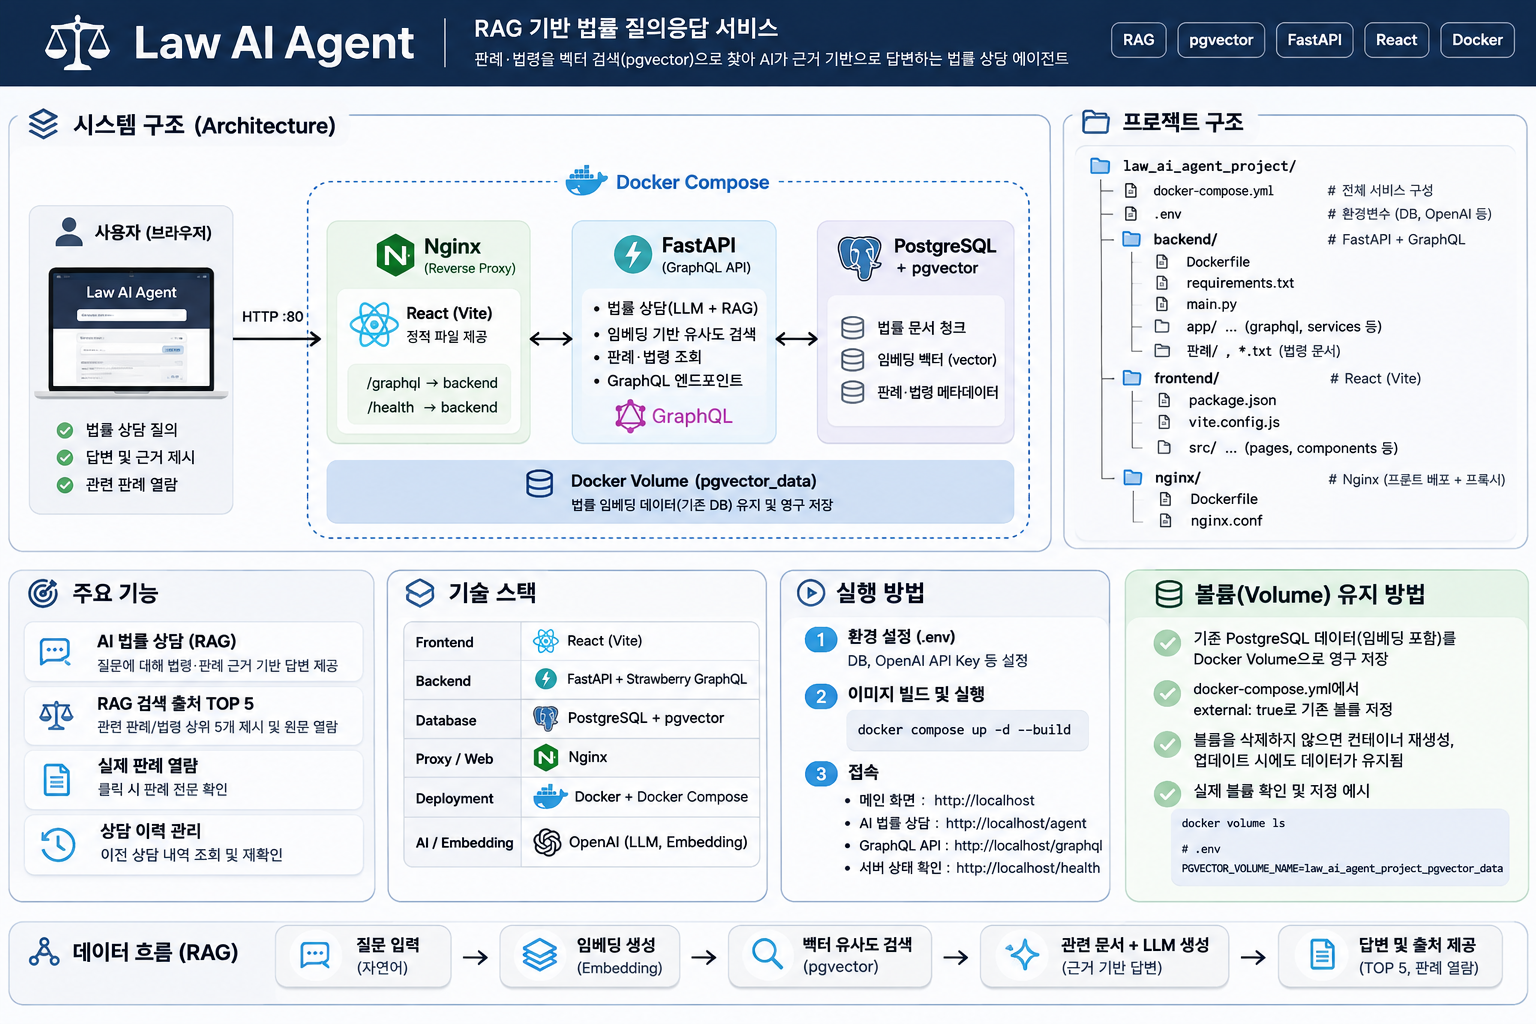
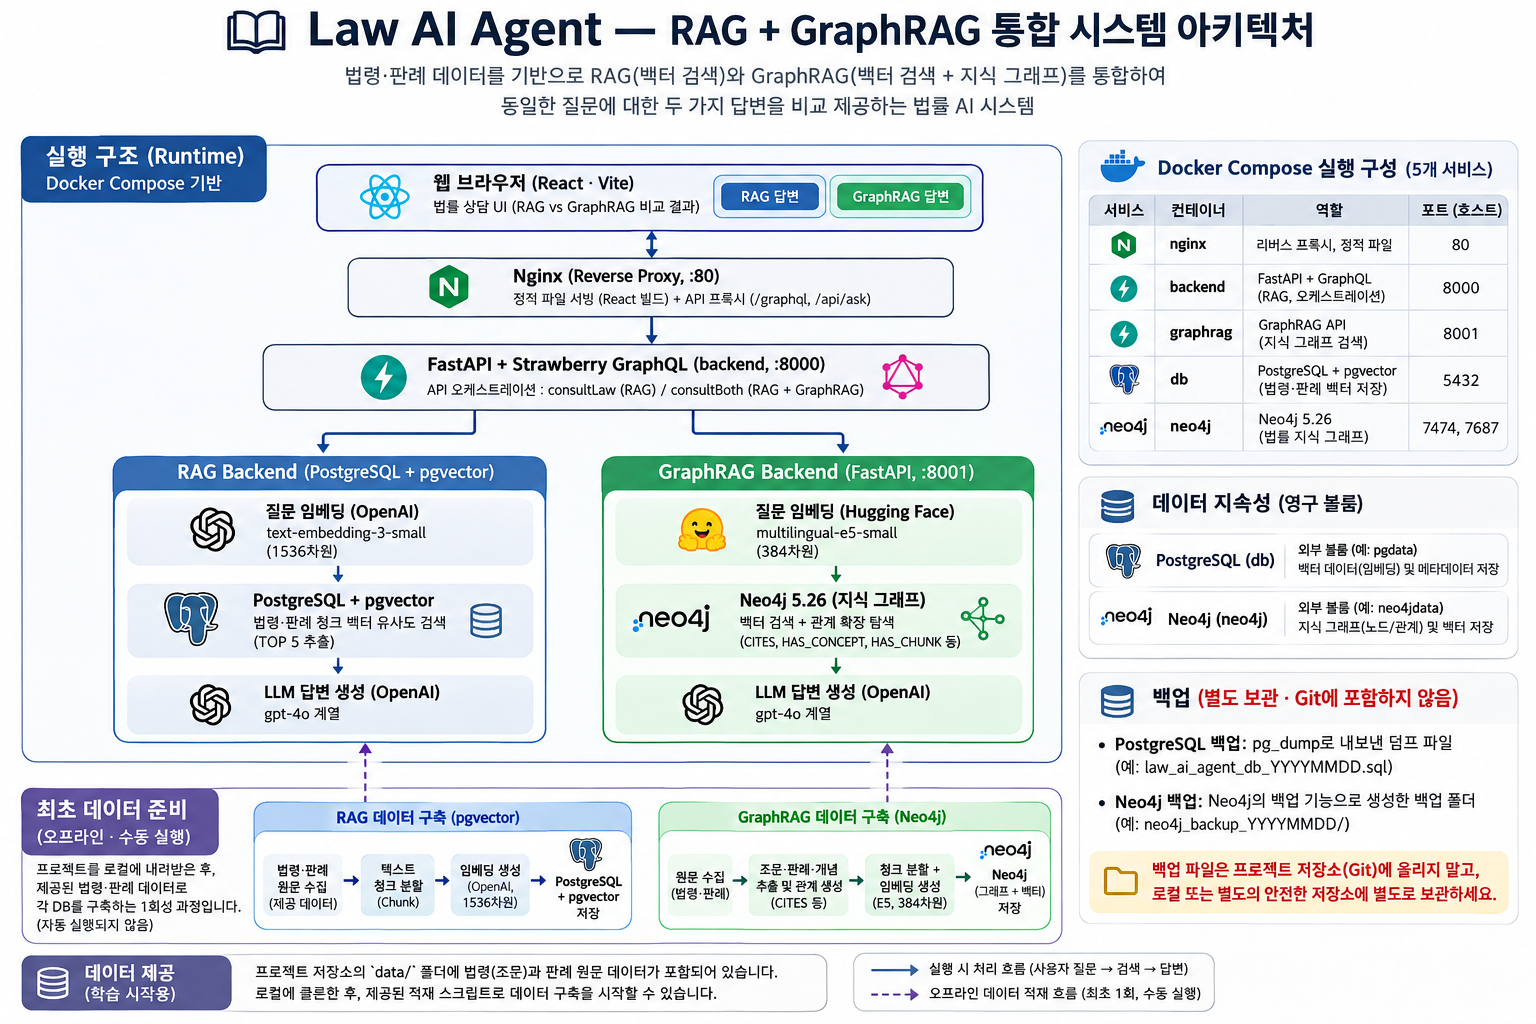
docs: update architecture and add learning data structure

diff --git a/README.md b/README.md
@@ -2,7 +2,7 @@
 
 **React + FastAPI + GraphQL 기반 법률 정보 검색·상담 프로젝트 — RAG(pgvector)와 GraphRAG(Neo4j) 비교**
 
-하나의 법률 질문에 대해 **RAG(문서 유사도 검색)**와 **GraphRAG(벡터 검색 + 법률 지식 관계 확장)**가 독립적으로 답변하도록 설계했습니다. Docker 환경에서 **`consultBoth` GraphQL Mutation 및 React 비교 화면의 실제 실행을 확인**했습니다. 아래에는 기존 RAG 화면과 통합 비교 화면을 모두 수록했습니다.
+하나의 법률 질문에 대해 **RAG(문서 유사도 검색)**와 **GraphRAG(벡터 검색 + 법률 지식 관계 확장)**가 독립적으로 답변하도록 설계했습니다. Docker 환경에서 **`consultBoth` GraphQL Mutation 및 React 비교 화면의 실제 실행을 확인**했습니다. 아래에는 최신 통합 아키텍처, 최초 데이터 구축과 질문 처리 흐름, 로컬 학습 환경 구성 방법을 정리했습니다.
 
 > ⚠ 이 프로젝트는 법률 정보 탐색을 위한 데모이며 변호사의 법률 자문을 대체하지 않습니다. 저장된 판례 청크는 판결문 전체가 아닐 수 있으며, 공식 판례 직접 링크는 검증된 사건번호·URL 메타데이터가 있을 때만 제공할 수 있습니다.
 
@@ -10,7 +10,7 @@
 
 ![Law AI Agent 시스템 아키텍처](assets/architecture.png)
 
-> 위 아키텍처 이미지는 초기 RAG 중심 설계의 참고 자료입니다. **현재 통합 구조**는 아래의 `consultBoth` 흐름과 GraphRAG 서비스를 함께 확인하세요.
+> **최신 통합 아키텍처:** Docker Compose의 `nginx`, `backend`, `graphrag`, `db`, `neo4j` 5개 서비스로 구성됩니다. 외부에 공개되는 포트는 기본적으로 Nginx의 80번이며, DB 및 내부 API 포트는 Docker 네트워크 내부에서 사용합니다. GraphRAG `/api/ask`는 메인 백엔드가 내부 HTTP로 호출합니다. 이미지의 서비스별 포트는 내부 리스닝 포트를 포함한 개념 표시이며, 실제 포트 공개 여부는 `docker-compose.yml`을 기준으로 확인하세요. 답변 모델은 `.env`의 `CHAT_MODEL`/`OPENAI_MODEL` 설정을 따릅니다.
 
 - **Nginx**: React(Vite) 정적 파일 제공 및 `/graphql`, `/health`를 FastAPI로 리버스 프록시
 - **FastAPI + Strawberry GraphQL**: 기존 `consultLaw` 및 통합 `consultBoth` Mutation
@@ -107,39 +107,14 @@ docker compose logs --tail=100 backend graphrag
 
 > **실행 상태(2026-11-21):** 로컬 Docker에서 `consultBoth`가 `rag.status = SUCCESS`, `graphrag.status = SUCCESS`를 반환하는 것을 확인했고, React 화면에서도 두 답변과 각각의 출처 TOP 5가 표시되는 것을 확인했습니다. 두 상태값은 API 실행 성공을 뜻하며, 법률적 정확성을 검증한 지표는 아닙니다.
 
-## 🆕 RAG + GraphRAG 통합 비교 — 실제 실행 화면
+## 🧪 통합 실행 확인 및 비교 관찰
 
-아래 이미지는 **2026-11-21 로컬 Docker 환경에서 실제 실행한 React 화면 캡처**입니다. 동일한 질문을 `consultBoth` Mutation으로 보내 RAG와 GraphRAG 답변을 한 화면에 나란히 표시합니다.
+2026-11-21 로컬 Docker 환경에서 `consultBoth` Mutation 호출 시 **RAG와 GraphRAG 모두 `SUCCESS`** 응답을 확인했습니다. React 화면에서 두 답변과 각 검색 출처 TOP 5를 나란히 표시했습니다. 다만 실행 화면 캡처는 문서를 간결하게 유지하기 위해 README에서 제외했습니다.
 
-### 1. 질문 입력 및 비교 상담 실행
-
-![RAG GraphRAG 비교 상담 질문 입력](assets/05-compare-question.png)
-
-- 사용자가 입력한 질문: **“AI가 생성한 문구는 저작권이 있나요? (AI가 특정 도서나 논문을 참고시)”**
-- **RAG + GraphRAG 비교 상담** 버튼 한 번으로 두 검색 경로를 호출합니다.
-
-### 2. 두 방식의 답변을 나란히 비교
-
-![RAG와 GraphRAG 실제 답변 비교](assets/06-compare-answers.png)
-
-- 왼쪽 **RAG · pgvector**: 검색한 법률 문서 청크를 중심으로 상담 내용 요약, 근거, 대응 방법을 정리합니다.
-- 오른쪽 **GraphRAG · Neo4j**: 법률 개념과 연결된 조문·판례 정보를 포함해 근거를 설명합니다.
-- 캡처에서 두 응답 모두 `SUCCESS`로 표시됩니다.
-
-### 3. 답변 하단의 검색 출처 TOP 5
-
-![RAG GraphRAG 검색 출처 TOP 5 비교](assets/07-compare-sources.png)
-
-- RAG는 `판례/민법_판례.txt` 등 **문서 청크 출처와 유사도**를 표시합니다.
-- GraphRAG는 `대법원:2015다5170` 등 **그래프 검색 출처와 유사도**를 표시합니다.
-- 각 항목의 **원문 보기**로 검색에 사용된 내용을 확인할 수 있습니다. 전체 판결문 직접 연결을 의미하지는 않습니다.
-- 검색 유사도는 서로 다른 임베딩 모델과 검색 공간에서 계산되므로 **0.44와 0.92를 직접 비교해 어느 쪽이 더 정확하다고 판단할 수 없습니다.**
-
-### 실험 관찰
-
-이번 질문에 대해 개발자는 **GraphRAG의 답변이 더 만족스럽다**고 평가했습니다. 법률 조문·판례를 구조적으로 제시해 근거를 따라가기 쉬웠다는 점이 장점입니다. 다만 이는 **단일 질문에 대한 주관적 관찰**이며, GraphRAG의 법률적 정확도가 더 높다는 검증 결과는 아닙니다.
-
-향후에는 동일 질문 세트에서 **근거 일치율, 판례·조문 인용 정확도, 답변 충실도, 응답 시간, 토큰 비용**을 함께 측정하는 방식으로 비교할 수 있습니다. 화면에 표시된 판례번호와 법률 설명은 LLM 출력이므로 공식 자료를 통한 별도 확인이 필요합니다.
+- **RAG:** 법률 문서 청크 유사도 검색을 기반으로 답변
+- **GraphRAG:** 유사 청크 검색 후 관련 조문·법률 개념·판례 관계를 확장하여 답변
+- **관찰:** 한 테스트 질문에서 GraphRAG의 근거 제시 방식이 더 만족스러웠습니다. 이는 단일 사례의 주관적 평가이며 법률 정확도 우위를 뜻하지 않습니다.
+- **주의:** 두 방식의 유사도 점수는 임베딩 모델이 달라 직접 비교할 수 없으며, 생성된 사건번호·법률 근거는 공식 자료로 검증해야 합니다.
 
 ### 통합 GraphQL 요청 예시
 
@@ -156,45 +131,6 @@ mutation {
 }
 ```
 
-## 🖥 기존 RAG 실행 화면 (Screenshots)
-
-아래 화면은 Docker로 실행한 **기존 RAG 상담 기능의 실제 브라우저 캡처**입니다. 상담 질문부터 AI 답변, 검색 근거 TOP 5, 저장된 법률 문서 청크 열람까지의 흐름을 보여줍니다.
-
-### 1. AI 법률 상담 입력
-
-![AI 법률 상담 입력 화면](assets/01-consultation-form.png)
-
-- 왼쪽 사이드바: **AI 법률 상담 / 상담 내역 / 법률 자료** 메뉴
-- 상단 상태 표시: **GraphQL 연결**
-- 상담 질문 입력 및 개인정보 입력 주의 안내
-- 화면의 예시 질문: `ai로 만든 글의 저작권`
-
-### 2. AI 법률 상담 결과
-
-![AI 법률 상담 결과](assets/02-ai-answer.png)
-
-- GraphQL `consultLaw` 요청 결과가 `SUCCESS`로 표시됩니다.
-- 답변은 상담 내용 요약, 관련 법률 및 근거, 가능한 대응 방법, 추가 확인 사항, 전문가 상담 필요 여부로 구성되어 있습니다.
-- **주의:** 화면에 표시된 법률·판례 언급은 LLM 생성 결과입니다. 특정 사건번호나 법률 해석의 정확성이 검증되었다는 의미는 아닙니다.
-
-### 3. RAG 검색 출처 TOP 5
-
-![RAG 검색 출처 TOP 5](assets/03-rag-sources.png)
-
-- **AG Grid**로 순위, 법률 자료 파일명, 코사인 유사도를 표시합니다.
-- 캡처에서는 `판례/민법_판례.txt`, `판례/형사소송법_판례.txt`, `판례/대한민국헌법_판례.txt` 등의 파일에서 검색된 청크가 표시됩니다.
-- **동일 파일이 여러 번 나타날 수 있습니다.** 문서별 1건이 아니라 *청크 단위 TOP 5*를 검색하기 때문입니다.
-- 유사도는 검색 순위를 위한 수치이며 **법적 타당성이나 답변 정확도의 점수는 아닙니다.**
-
-### 4. 검색 원문 상세보기 (Modal)
-
-![검색된 법률 원문 상세보기](assets/04-source-detail-modal.png)
-
-- 검색 결과의 **원문 보기**를 클릭하면 Ant Design Modal이 열립니다.
-- 출처 파일명, 검색 유사도, PostgreSQL에 저장된 **실제 검색 청크**를 확인할 수 있습니다.
-- **국가법령정보센터에서 판례 검색** 버튼은 공식 검색 페이지를 여는 기능이며, 현재는 선택된 특정 판결문으로 직접 이동하는 링크가 아닙니다.
-- 전체 판결문 직접 열람을 위해서는 `case_number`, `official_url`, `document_id` 등 검증된 메타데이터 연결이 추가로 필요합니다.
-
 ## ✨ 주요 기능
 
 | 기능 | 설명 |
@@ -206,7 +142,7 @@ mutation {
 | GraphQL API | Strawberry GraphQL의 `consultLaw`, `consultBoth`, `health` |
 | 통합 비교 상담 | 동일 질문으로 RAG·GraphRAG 병렬 실행, 답변 2열 비교 |
 | GraphRAG 검색 | Neo4j 벡터 인덱스 검색 및 조문·개념·판례 관계 확장 |
-| 컨테이너 배포 | Nginx + FastAPI + PostgreSQL을 Docker Compose로 실행 |
+| 컨테이너 배포 | Nginx + FastAPI 2개 + PostgreSQL + Neo4j를 Docker Compose로 실행 |
 
 ## 🧰 기술 스택
 
@@ -224,14 +160,21 @@ mutation {
 ```text
 law_ai_agent_project/
 ├── .env                         # 로컬 비밀 설정 (Git에 올리지 않음)
+├── .env.example                 # 공유 가능한 환경변수 예시
+├── .gitignore                   # 비밀 설정·백업·생성 파일 제외
+├── data/                        # 이용 조건 확인된 공개 법률 학습 데이터
+│   ├── README.md                # 데이터 출처 및 사용 규칙
+│   ├── sources.csv              # 데이터 출처·라이선스 기록 템플릿
+│   ├── statutes/                # 법령 원문 (검증 후 추가)
+│   └── cases/                   # 판결문 원문 (검증 후 추가)
 ├── docker-compose.yml           # nginx, backend, graphrag, db, neo4j
 ├── backend/
 │   ├── Dockerfile
 │   ├── requirements.txt
 │   ├── main.py                   # FastAPI 및 /graphql
 │   ├── ingest.py                 # 법률 문서 임베딩 적재 (수동 실행)
-│   ├── *.txt                     # 법령 원본
-│   ├── 판례/                     # 판례 원본
+│   ├── *.txt                     # 기존 법령 원본 (이전 환경)
+│   ├── 판례/                     # 기존 판례 원본 (이전 환경)
 │   └── app/
 │       ├── database.py
 │       ├── graphql/              # schema, resolver, types, inputs
@@ -270,6 +213,42 @@ law_ai_agent_project/
     → GraphQL 응답(answer, status, sources)
     → React 답변 + AG Grid 출처 + 원문 Modal
 ```
+
+## 📚 GitHub에서 내려받아 학습 시작하기
+
+이 저장소는 **코드 + 공개 가능한 법률 학습 데이터 + 데이터 출처 정보**를 제공하는 구조를 권장합니다. 다만 현재 패키지에는 실제 법령·판례 원문이 첨부되지 않아 **`data/`에는 안내문과 출처 기록 템플릿만 포함**되어 있습니다. 원문 데이터는 배포 권한 확인 후 별도로 추가해야 합니다.
+
+### 1. 소스 받기
+
+```powershell
+git clone https://github.com/lluna93/law_ai_agent_project.git
+cd law_ai_agent_project
+Copy-Item .env.example .env
+```
+
+`.env`에 본인의 OpenAI API 키, DB 접속정보, 기존 볼륨 이름을 입력합니다. `external: true`로 지정된 볼륨은 미리 존재해야 합니다. **신규 학습 환경에서는 기존 볼륨 이름을 임의로 입력하지 말고**, 새 빈 볼륨을 생성한 후 연결하거나 별도 신규 환경용 Compose 설정을 사용하세요.
+
+### 2. 데이터 준비 및 적재
+
+1. `data/README.md`의 출처·공개 조건을 확인하고 허용된 법령·판례 원문만 `data/statutes/`, `data/cases/`에 저장합니다.
+2. **현재 적재 스크립트는 기존 `backend/*.txt`, `backend/판례/` 등 경로를 사용할 수 있습니다.** `data/`를 자동으로 읽는다고 가정하지 마세요. 실제 `ingest.py`의 입력 경로를 확인해 데이터 파일을 복사하거나 스크립트 경로를 수정해야 합니다.
+3. 빈 PostgreSQL·Neo4j를 준비하고 테이블/인덱스 및 환경변수를 점검합니다.
+4. `backend/ingest.py`, `graphrag_backend/ingest.py`를 **각각 수동 실행**합니다. 임베딩 및 개념 추출 과정에서 API 비용이 발생할 수 있습니다.
+5. 기존 데이터가 있다면 **재적재하지 말고** 볼륨 연결 상태와 데이터 개수를 확인합니다. 두 적재 스크립트는 자동으로 실행되지 않습니다.
+
+### 3. 실행과 테스트
+
+```powershell
+docker compose config --quiet
+docker compose up -d --build
+docker compose ps
+```
+
+- 프론트엔드: `http://localhost/agent`
+- GraphQL: `http://localhost/graphql`
+- 테스트 Mutation: 위의 `consultBoth` 예시
+
+> **중요:** 저장소를 `git clone`하는 것만으로 PostgreSQL 임베딩과 Neo4j 지식 그래프가 자동 생성되지는 않습니다. 최초 적재 절차가 필요합니다. 기존 백업을 사용한다면 적재 대신 **각 DB를 별도로 복원**하세요.
 
 ## 🚀 Docker 배포
 
@@ -347,7 +326,7 @@ $body = @{ query = '{ health }' } | ConvertTo-Json
 Invoke-RestMethod -Uri 'http://localhost/graphql' -Method Post -ContentType 'application/json' -Body $body
 ```
 
-## 💾 PostgreSQL·Neo4j 데이터 보존
+## 💾 PostgreSQL·Neo4j 데이터 보존 및 별도 백업
 
 ### 원칙
 
@@ -378,7 +357,7 @@ docker cp "${cid}:/tmp/law_rag.dump" .\backups\law_rag.dump
 docker compose exec -T db rm -f /tmp/law_rag.dump
 ```
 
-> `backups/`는 `.gitignore`에 추가하고, DB 백업을 공개 GitHub 저장소에 업로드하지 마세요. 판례·법령 원문 등 데이터의 라이선스도 확인해야 합니다.
+> **백업 파일은 프로젝트 저장소와 분리해 보관하세요.** `backups/`, `*.dump`, `*.backup`, Neo4j 백업 파일 및 DB 볼륨 아카이브를 `.gitignore`에서 제외하고 GitHub에 업로드하지 않습니다. 암호화된 외장 SSD 또는 접근 제한된 별도 백업 저장소에 보관하세요. PostgreSQL dump에는 Neo4j 그래프가 포함되지 않습니다.
 
 ### 다른 PC로 이전
 
@@ -415,6 +394,10 @@ volumes:
 - 검색된 청크의 출처와 유사도는 법적 정확성의 보증이 아닙니다.
 - 공식 판례 원문 연결은 검증된 사건번호 및 URL 메타데이터가 확보된 경우에만 활성화합니다.
 
-## 📄 라이선스 / 데이터 출처
+## 📄 라이선스 / 데이터 출처 및 공개 기준
 
-애플리케이션 코드의 라이선스와 법령·판례 데이터의 이용 조건은 별도로 관리합니다. 법률 문서의 출처, 수집일, 이용 조건을 확인한 후 배포하세요.
+- **법령·판결문 원문:** 대한민국 저작권법 제7조의 법령·법원 판결 등은 저작권 보호 대상이 아닌 저작물에 해당할 수 있으나, 개별 자료의 성격과 출처·재이용 조건은 확인해야 합니다.
+- **공개 금지 또는 별도 허락 필요 가능:** 민간 판례 해설, 법률 데이터베이스의 편집물, 유료 서비스 수집 데이터, 개인정보·비식별 미흡 자료, 이용약관상 재배포가 제한된 파일.
+- **권장 방식:** 공식 출처에서 수집한 허용 자료만 원문 그대로 또는 출처를 명시하여 제공하고, `data/sources.csv`에 URL·수집일·이용조건·검토 결과를 기록합니다. 원문 파일 자체가 공개되지 않은 경우에는 공식 다운로드 링크와 수집 스크립트를 제공하는 방식을 고려하세요.
+- **코드와 데이터의 라이선스는 별도**로 관리하며, 공개 배포가 상업적 활용·모델 학습까지 자동 허용한다는 뜻은 아닙니다.
+

diff --git a/data/README.md b/data/README.md
@@ -1,0 +1,11 @@
+# 법률 학습 데이터 안내
+
+이 폴더에는 배포·재이용 조건을 확인한 **법령·판결문 원문만** 추가합니다. 현재 패키지는 원문 데이터를 포함하지 않습니다.
+
+- `statutes/`: 검증된 법령 원문
+- `cases/`: 검증된 판결문 원문
+- `sources.csv`: 파일별 출처 URL, 수집일, 재배포 허용 근거, 개인정보 검토 결과
+
+민간 판례 해설·유료 DB 자료·개인정보 포함 문서는 별도 검토 없이 공개하지 마세요.
+
+주의: 기존 `backend/ingest.py`, `graphrag_backend/ingest.py`는 이 폴더를 자동으로 읽지 않을 수 있습니다. 실행 전에 입력 경로를 확인해야 합니다.
